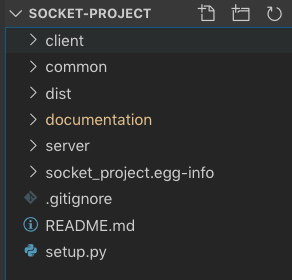
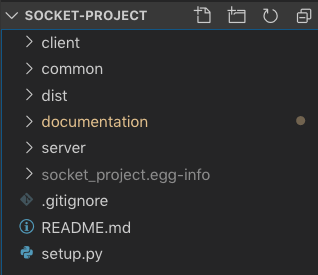
Finished decumentation

diff --git a/documentation/README.md b/documentation/README.md
@@ -1,5 +1,16 @@
 # Decumentation
 
+### Playing
+1. Decide if running `source code` or `exe` files  
+    * For running `exe`, download files here, then double click either `server.exe` or `client.exe`.
+    * For running source code, read `README` on project's root.
+2. Run the server, should look like this
+  ![](server-running.png)
+3. Run client (up to 2 at the same time)
+    * Will decline more than 2 clients at the same time
+    ![](client-decline.png) 
+    * Playing the client is pretty straight forward, can quit at before bet or at end of deck
+    ![](client-playing.png)
 ### Design
 Here I'll explain the code and the design pattern I chose
 * **Source tree**
@@ -10,4 +21,46 @@ Here I'll explain the code and the design pattern I chose
   Has the exe files
   * **`documentation`**  
   Has the files for this decomentation you're reading
+  * **`socket_project.egg-info`**  
+  Folder in `.gitignore`, created by `setup.py` for easy development [(more on `setup.py` here)](https://docs.python.org/3.8/distutils/setupscript.html).
+* **Design**
+  * **Client**  
+    * **Source tree**  
+    ![](client-source-tree.png)
+    * **Structure**  
+      ![](client-struct.png)
+      * **`Game`**  
+      Has only connection instance, all data of amount, bets, cards and received from server and is not stored after displaying to the user.  
+      * **`Connection`**  
+      Has only one function and that is `do_request`, the instance `Game` has is created by `get_connection` which uses own internal connection called `_main_connection`.
+    * **Validation**  
+    Runs on client, but also on server to prevent hacking
+  * **Server**  
+    * **Source tree**  
+    ![](server-source-tree.png)
+    * **Structure**  
+    ![](server-struct.png)
+      * **`Game`**  
+      All game logic, stores `amount` at start, has function such as `set_bet`, `tie_break` and stores all data for each round for `ClientManager` to get and return to the client.
+      * **`ServerManger`**  
+      Listens on main port, creates client managers when new connection is accepted, on termination will also terminate all clients.
+      * **`ClientManger`**  
+      Listens on any free port and will manage the connection to specific client.
+    * **Validation**  
+    All throws will return response with `rejection` type and the Exception message, no other data is sent so client just restarts the game (wasn't asked for, but nice feature against hacking).
+  * **Common**  
+    * **Source tree**  
+    ![](common-source-tree.png)
+    * **Structure**  
+      * **`card`**  
+      Card Class, has enums for all suits and ranks, encoding and decoding function for sending over socket, and many more.
+      * **`client_api`**  
+      Just enum to be used in `Server:ClientManager` and `Client:server_api` client manager will navigate to the asked api call from each client. 
+      * **`event`**  
+      Has `listen` and `do_request` functions, each will get `handler` with the response/request when the async call is received.   
+      * **`PortManager`**  
+      Has Main port, also manages what ports are free and taken, gives and releases free ports.  
+      * **`Response`**  
+      Shared with client and server to agree on "protocol" and how response should look and behave.  
+
 

diff --git a/README.md b/README.md
@@ -7,6 +7,15 @@
     ```sh
         py setup.py develop
     ```
+* Now you're ready!
+  * Running server (`pwd: project's root`)
+    ```sh
+    server
+    ```
+  * Running client (`pwd: project's root`)
+    ```sh
+    client
+    ```
 
 ### Build
     * Run in terminal
